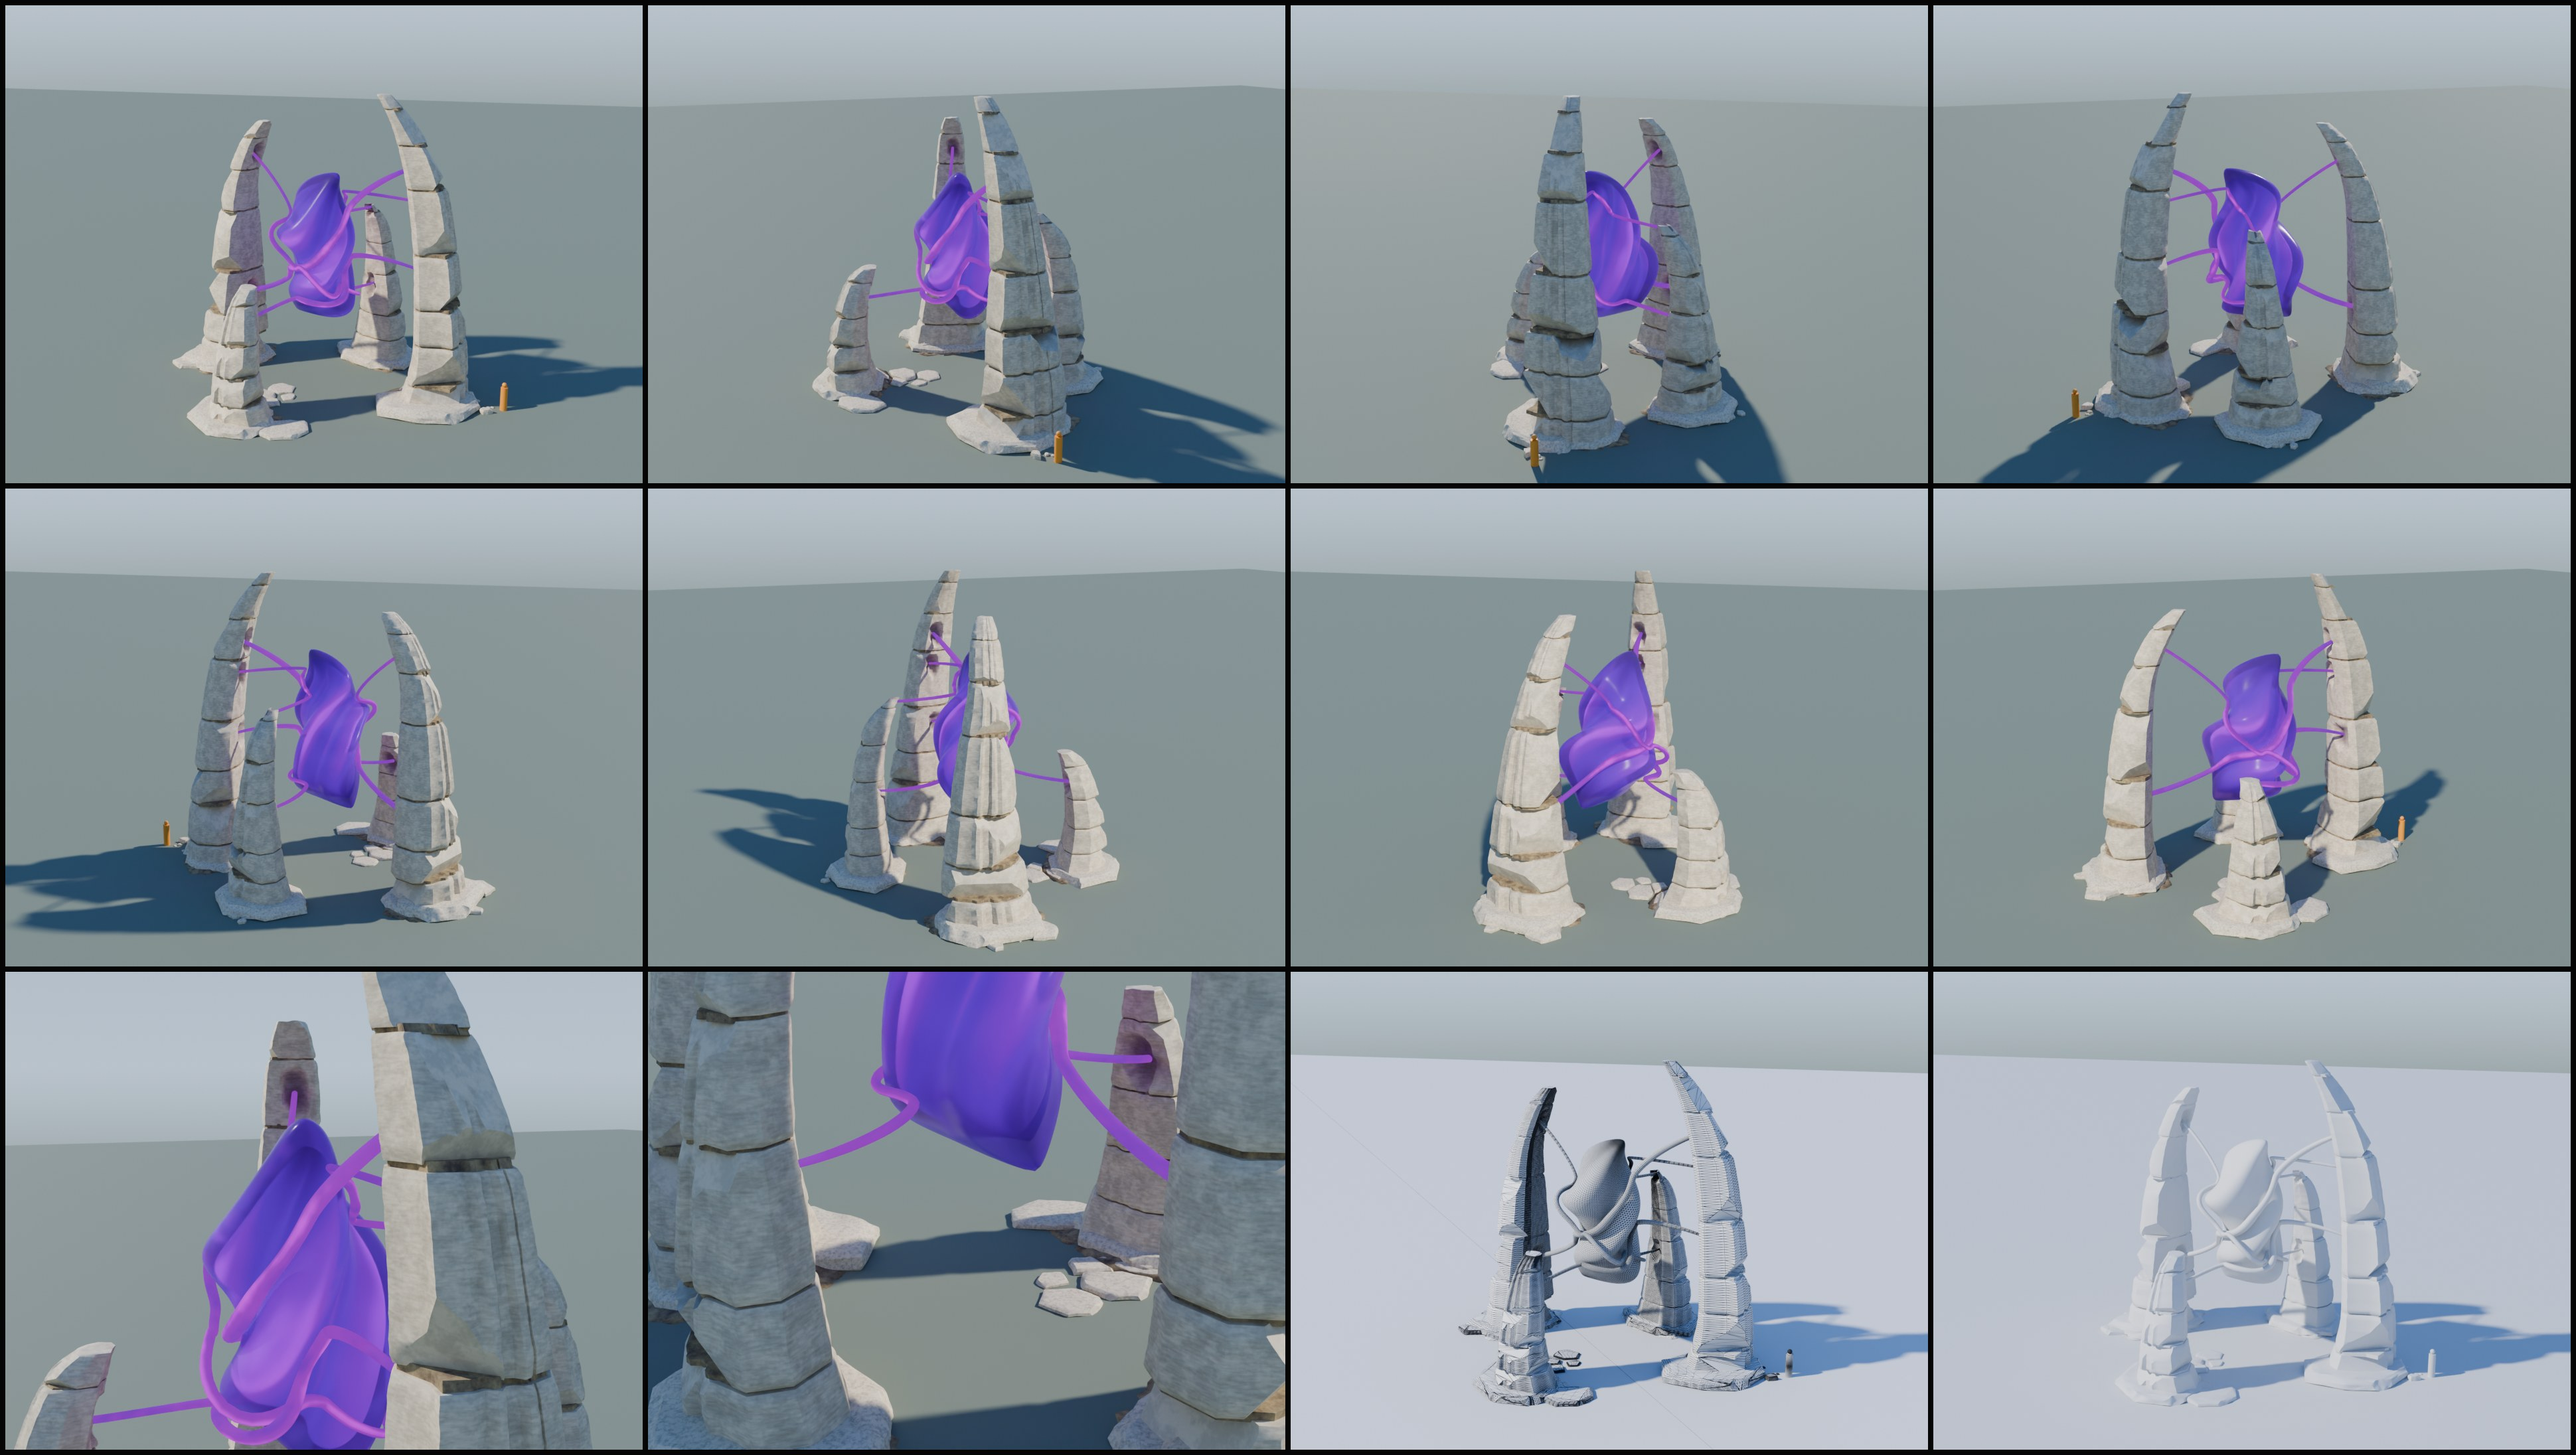
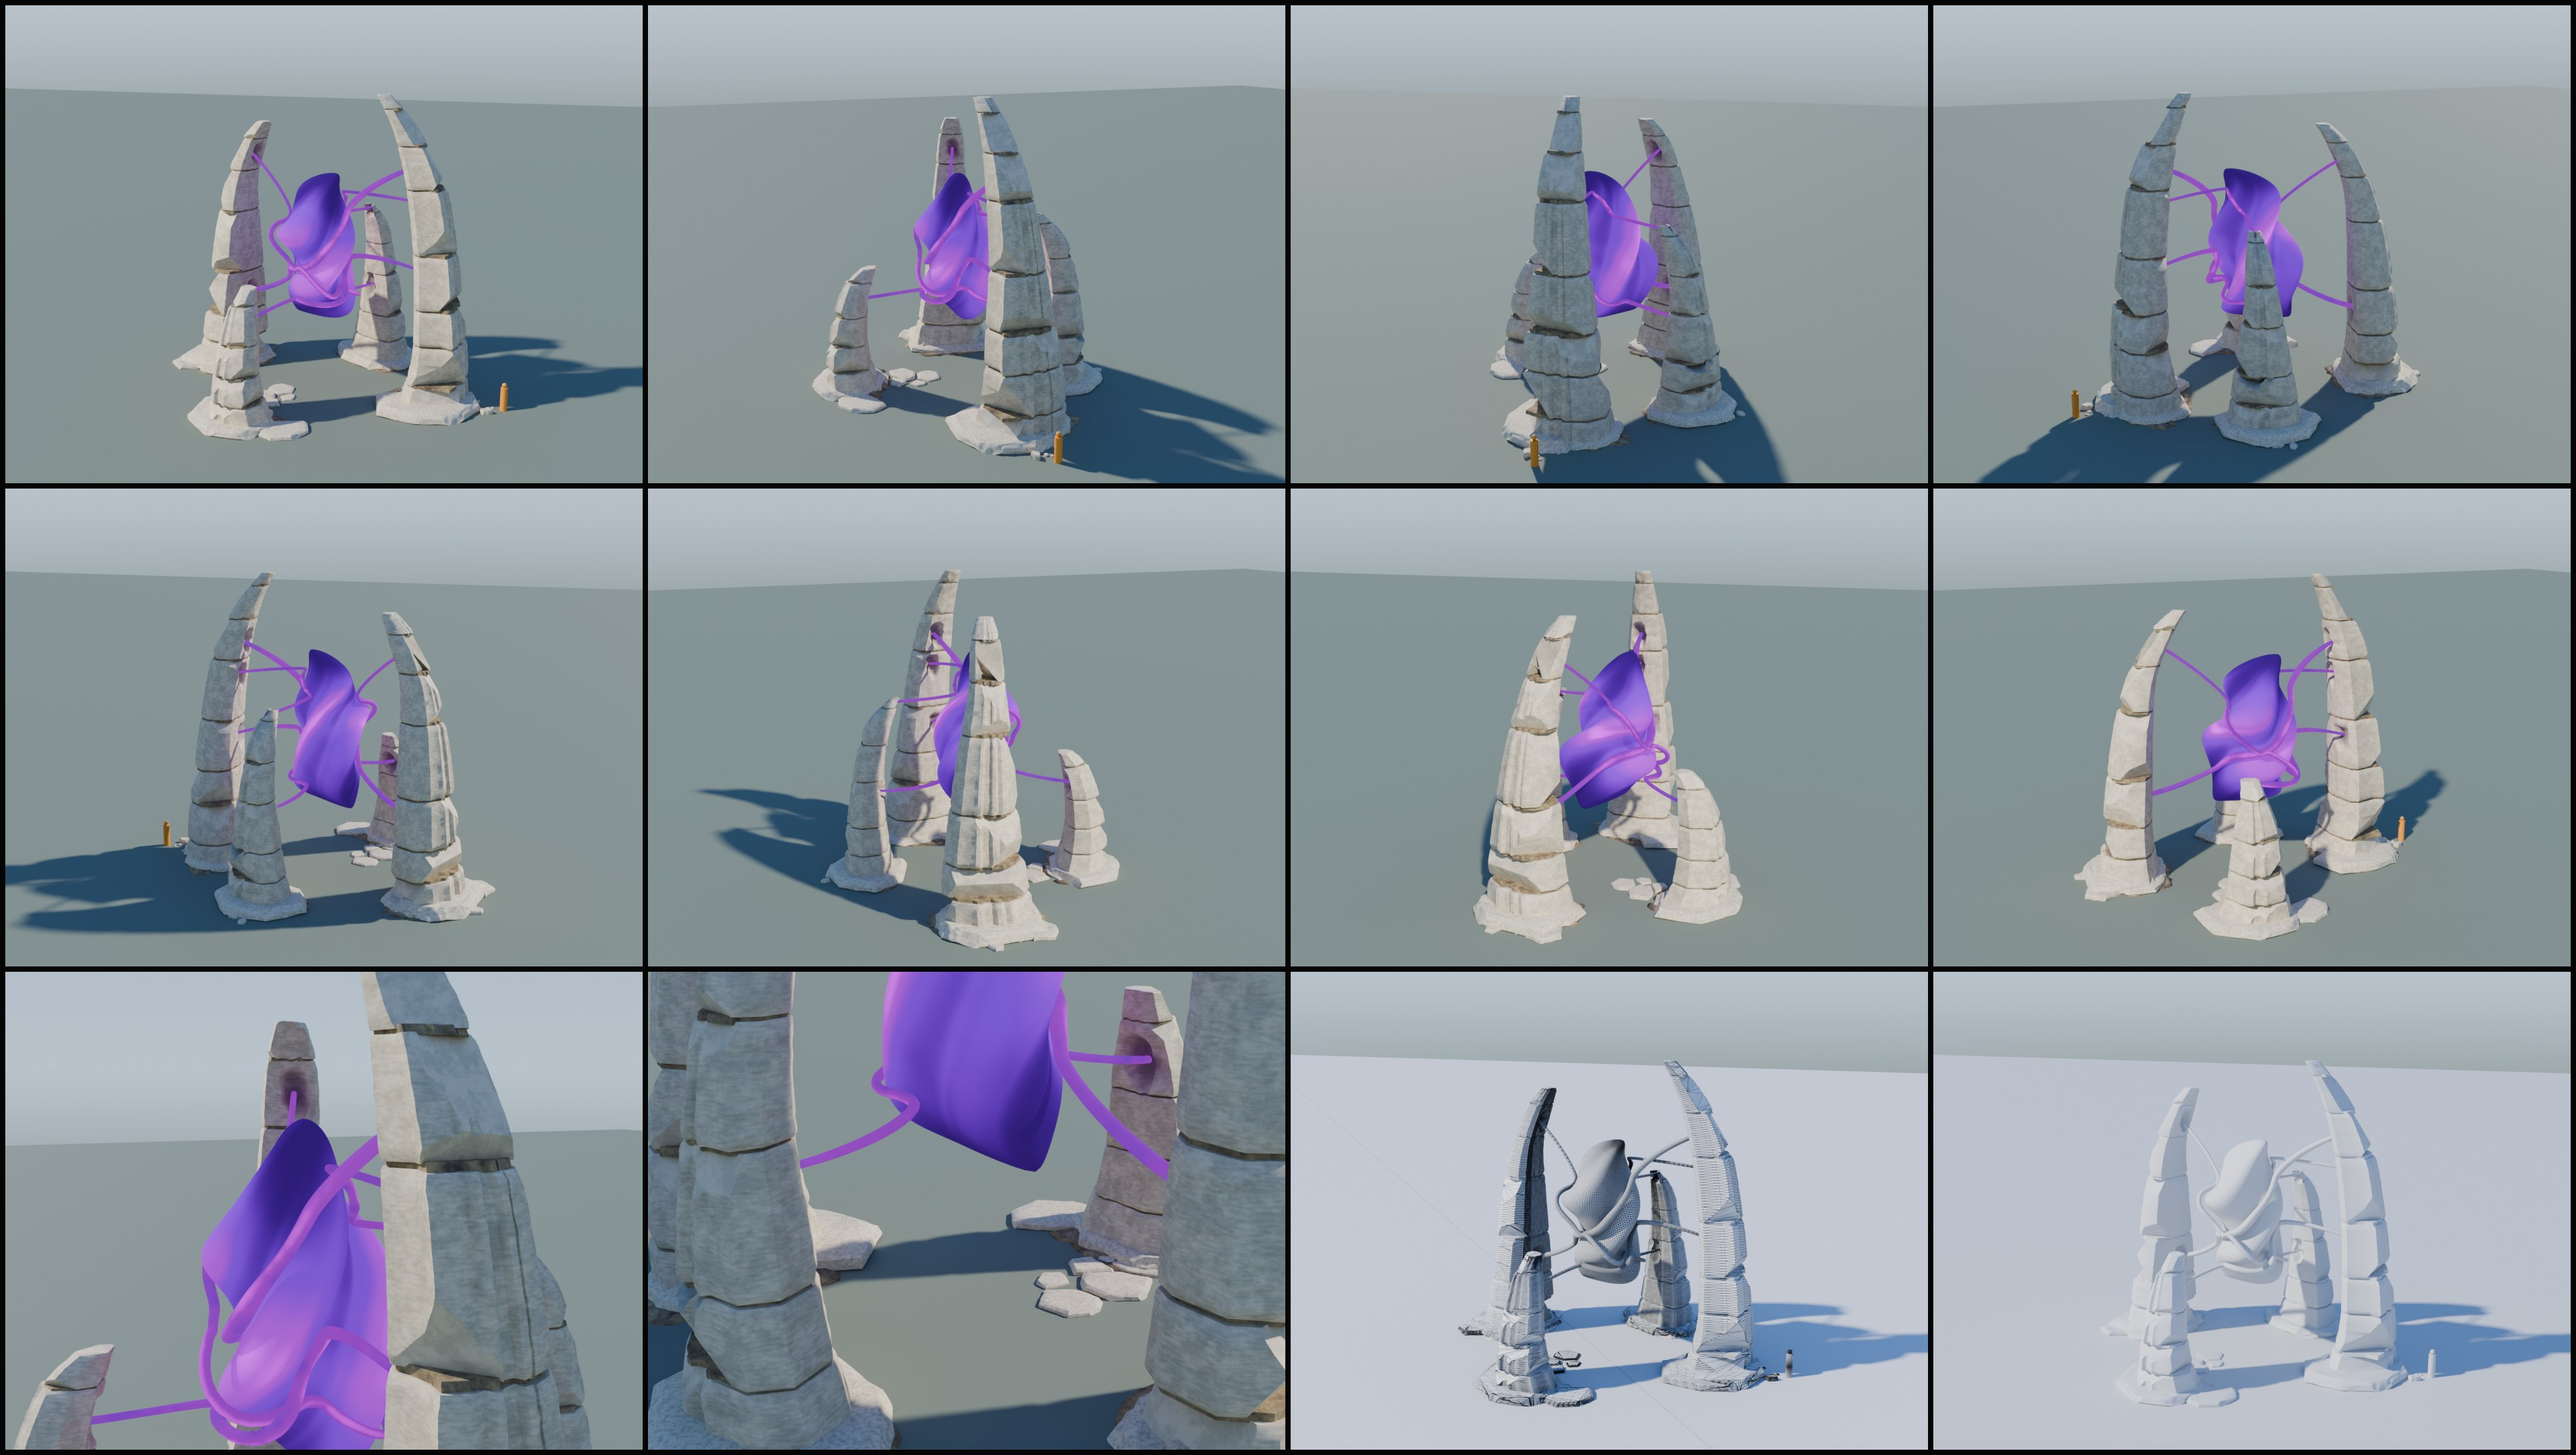
Keep energy foundation earth within burial limit

diff --git a/assets/energy/energy_core_a/build.py b/assets/energy/energy_core_a/build.py
@@ -391,14 +391,14 @@ def earth_bed(name, angle, base, rng):
     n = 48
     rows = []
     phase = rng.uniform(0, math.tau)
-    for span, height in ((.96,-.085), (1,-.009), (.81,.078), (.65,.22), (.38,.32), (.13,.28)):
+    for span, height in ((.96,-.055), (1,-.009), (.81,.078), (.65,.22), (.38,.32), (.13,.28)):
         row = []
         for j in range(n):
             theta = j*math.tau/n
             erosion = 1 + .08*math.sin(3*theta+phase) + .055*math.cos(7*theta-phase)
             p = centre + span*erosion*((depth+.62)*math.cos(theta)*forward
                                        + (width+.79)*math.sin(theta)*across)
-            p.z = height + min(.16, height+.09)*noise_vector(p*2.15).z
+            p.z = max(-.055, height + min(.16, height+.09)*noise_vector(p*2.15).z)
             row.append(p)
         rows.append(row)
     return mesh_object(name+" | settled mineral earth", *loft(rows), ["dirt_path"], smooth=True)
